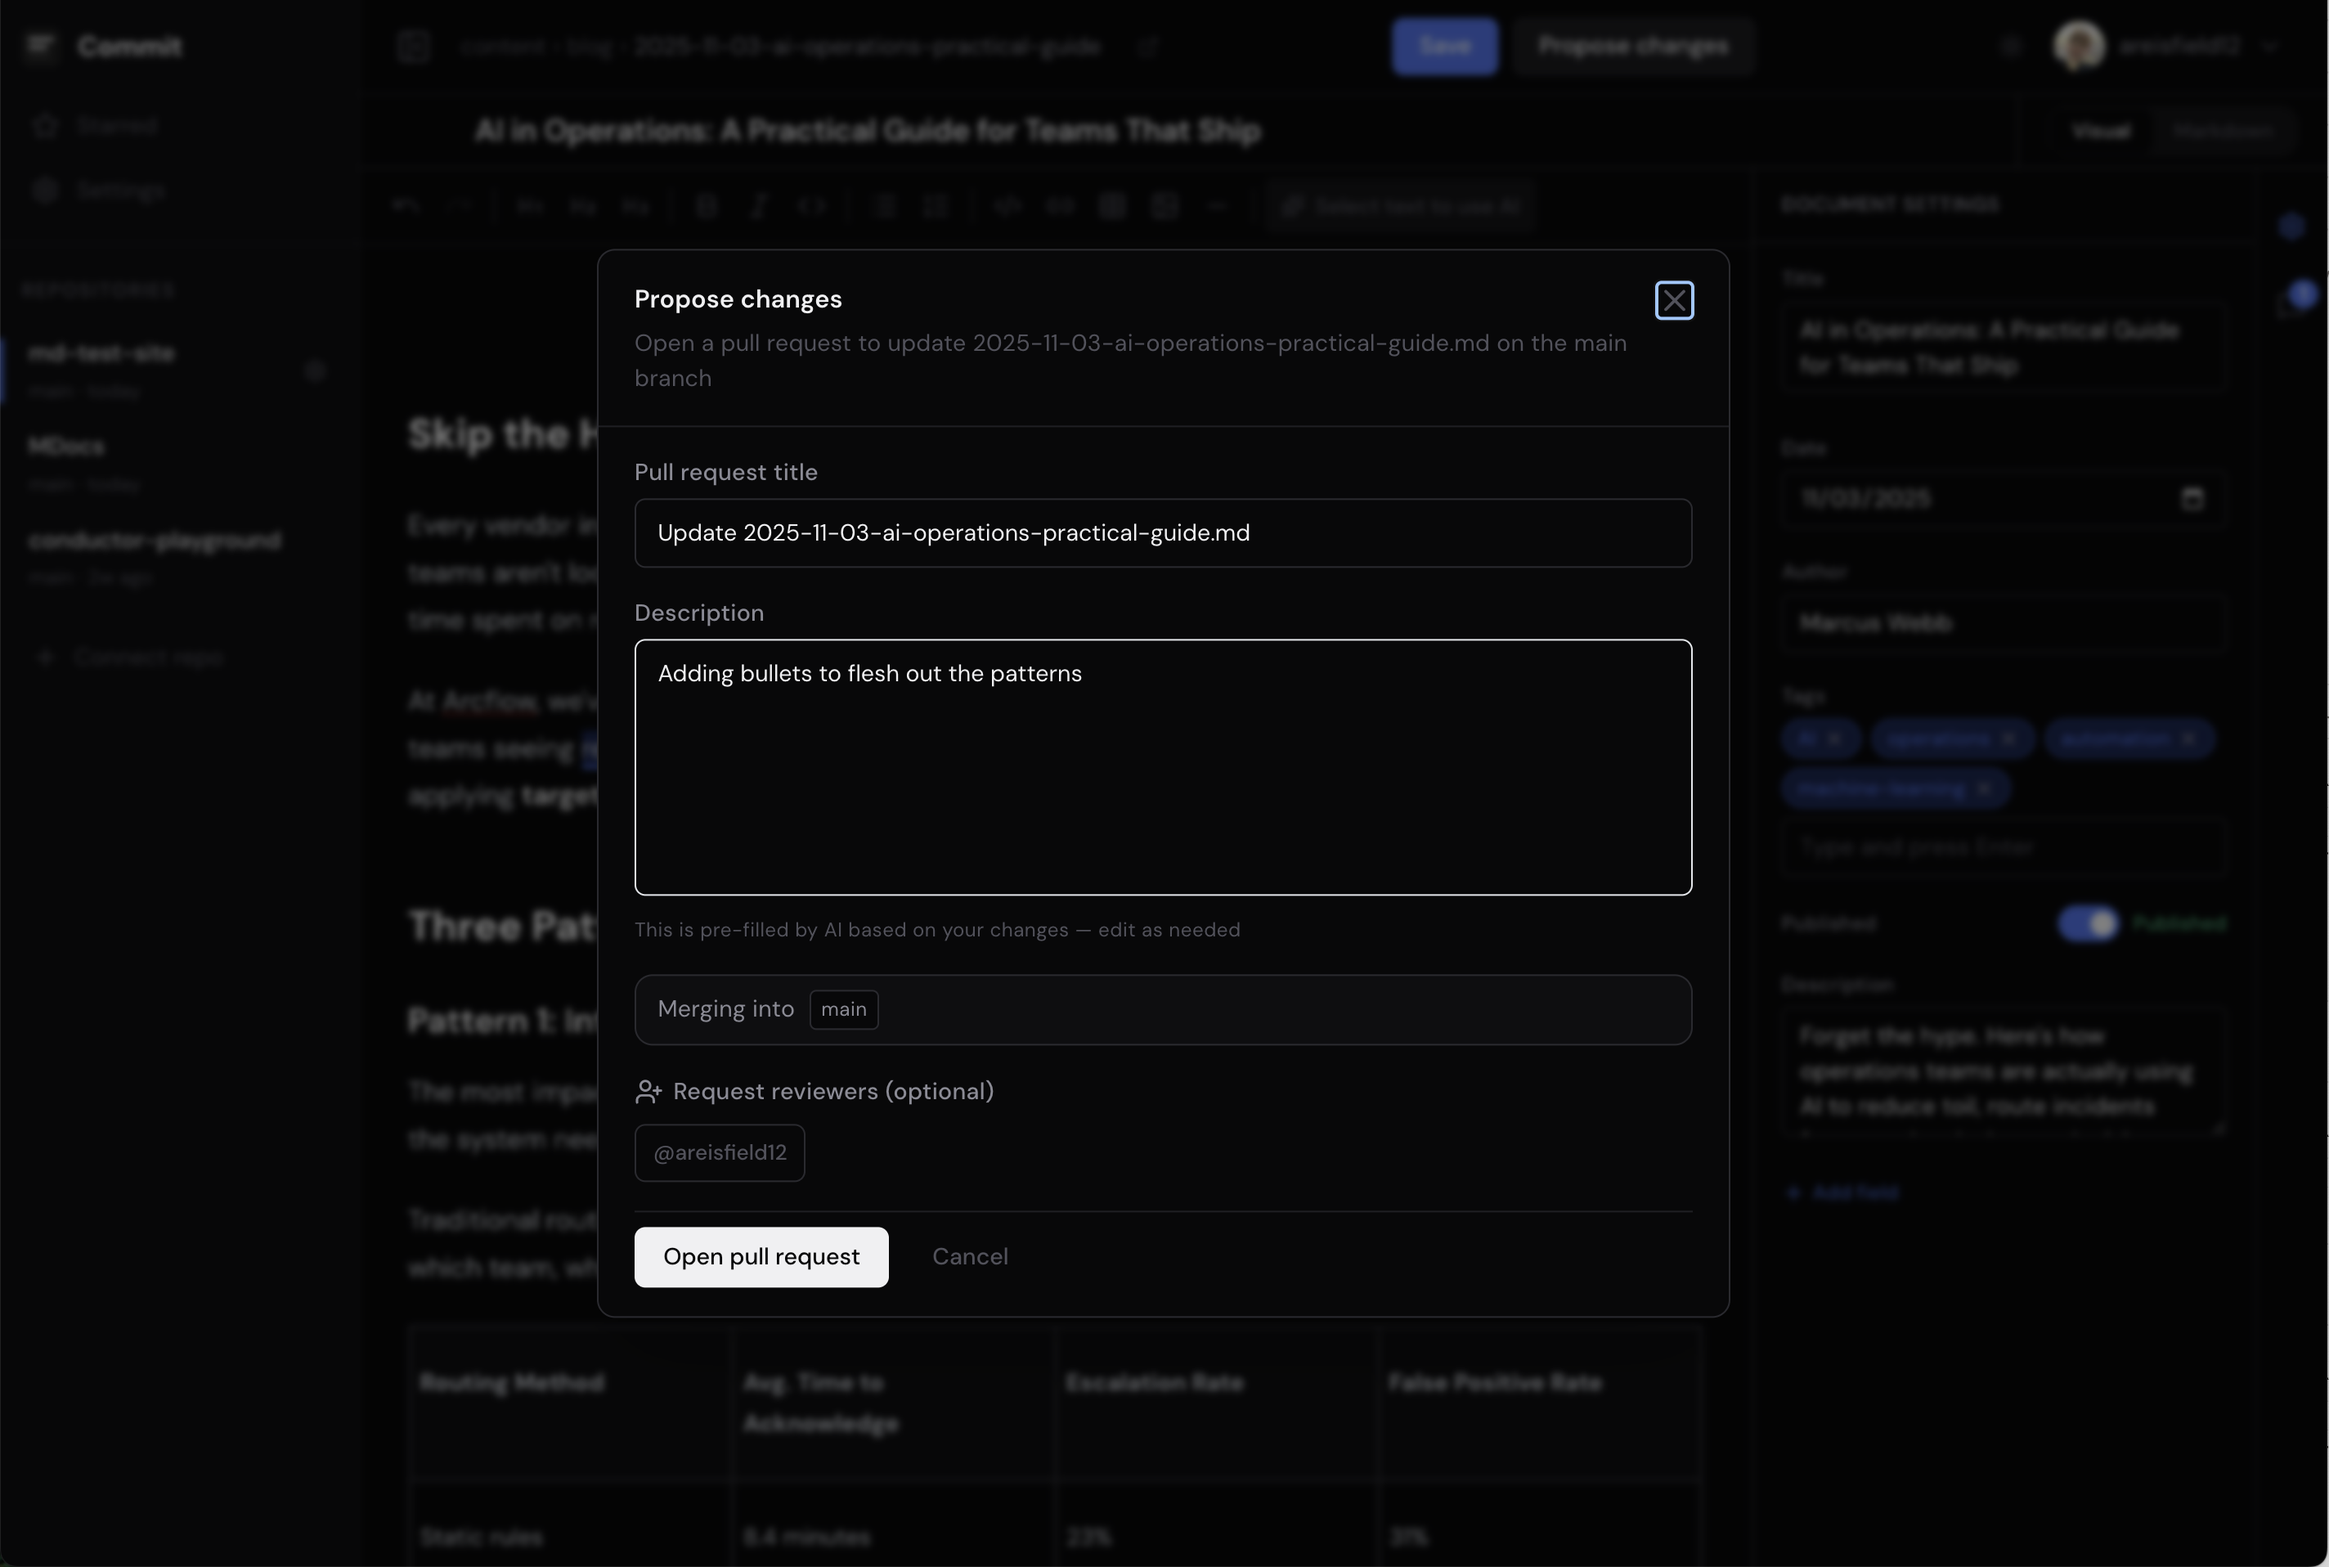
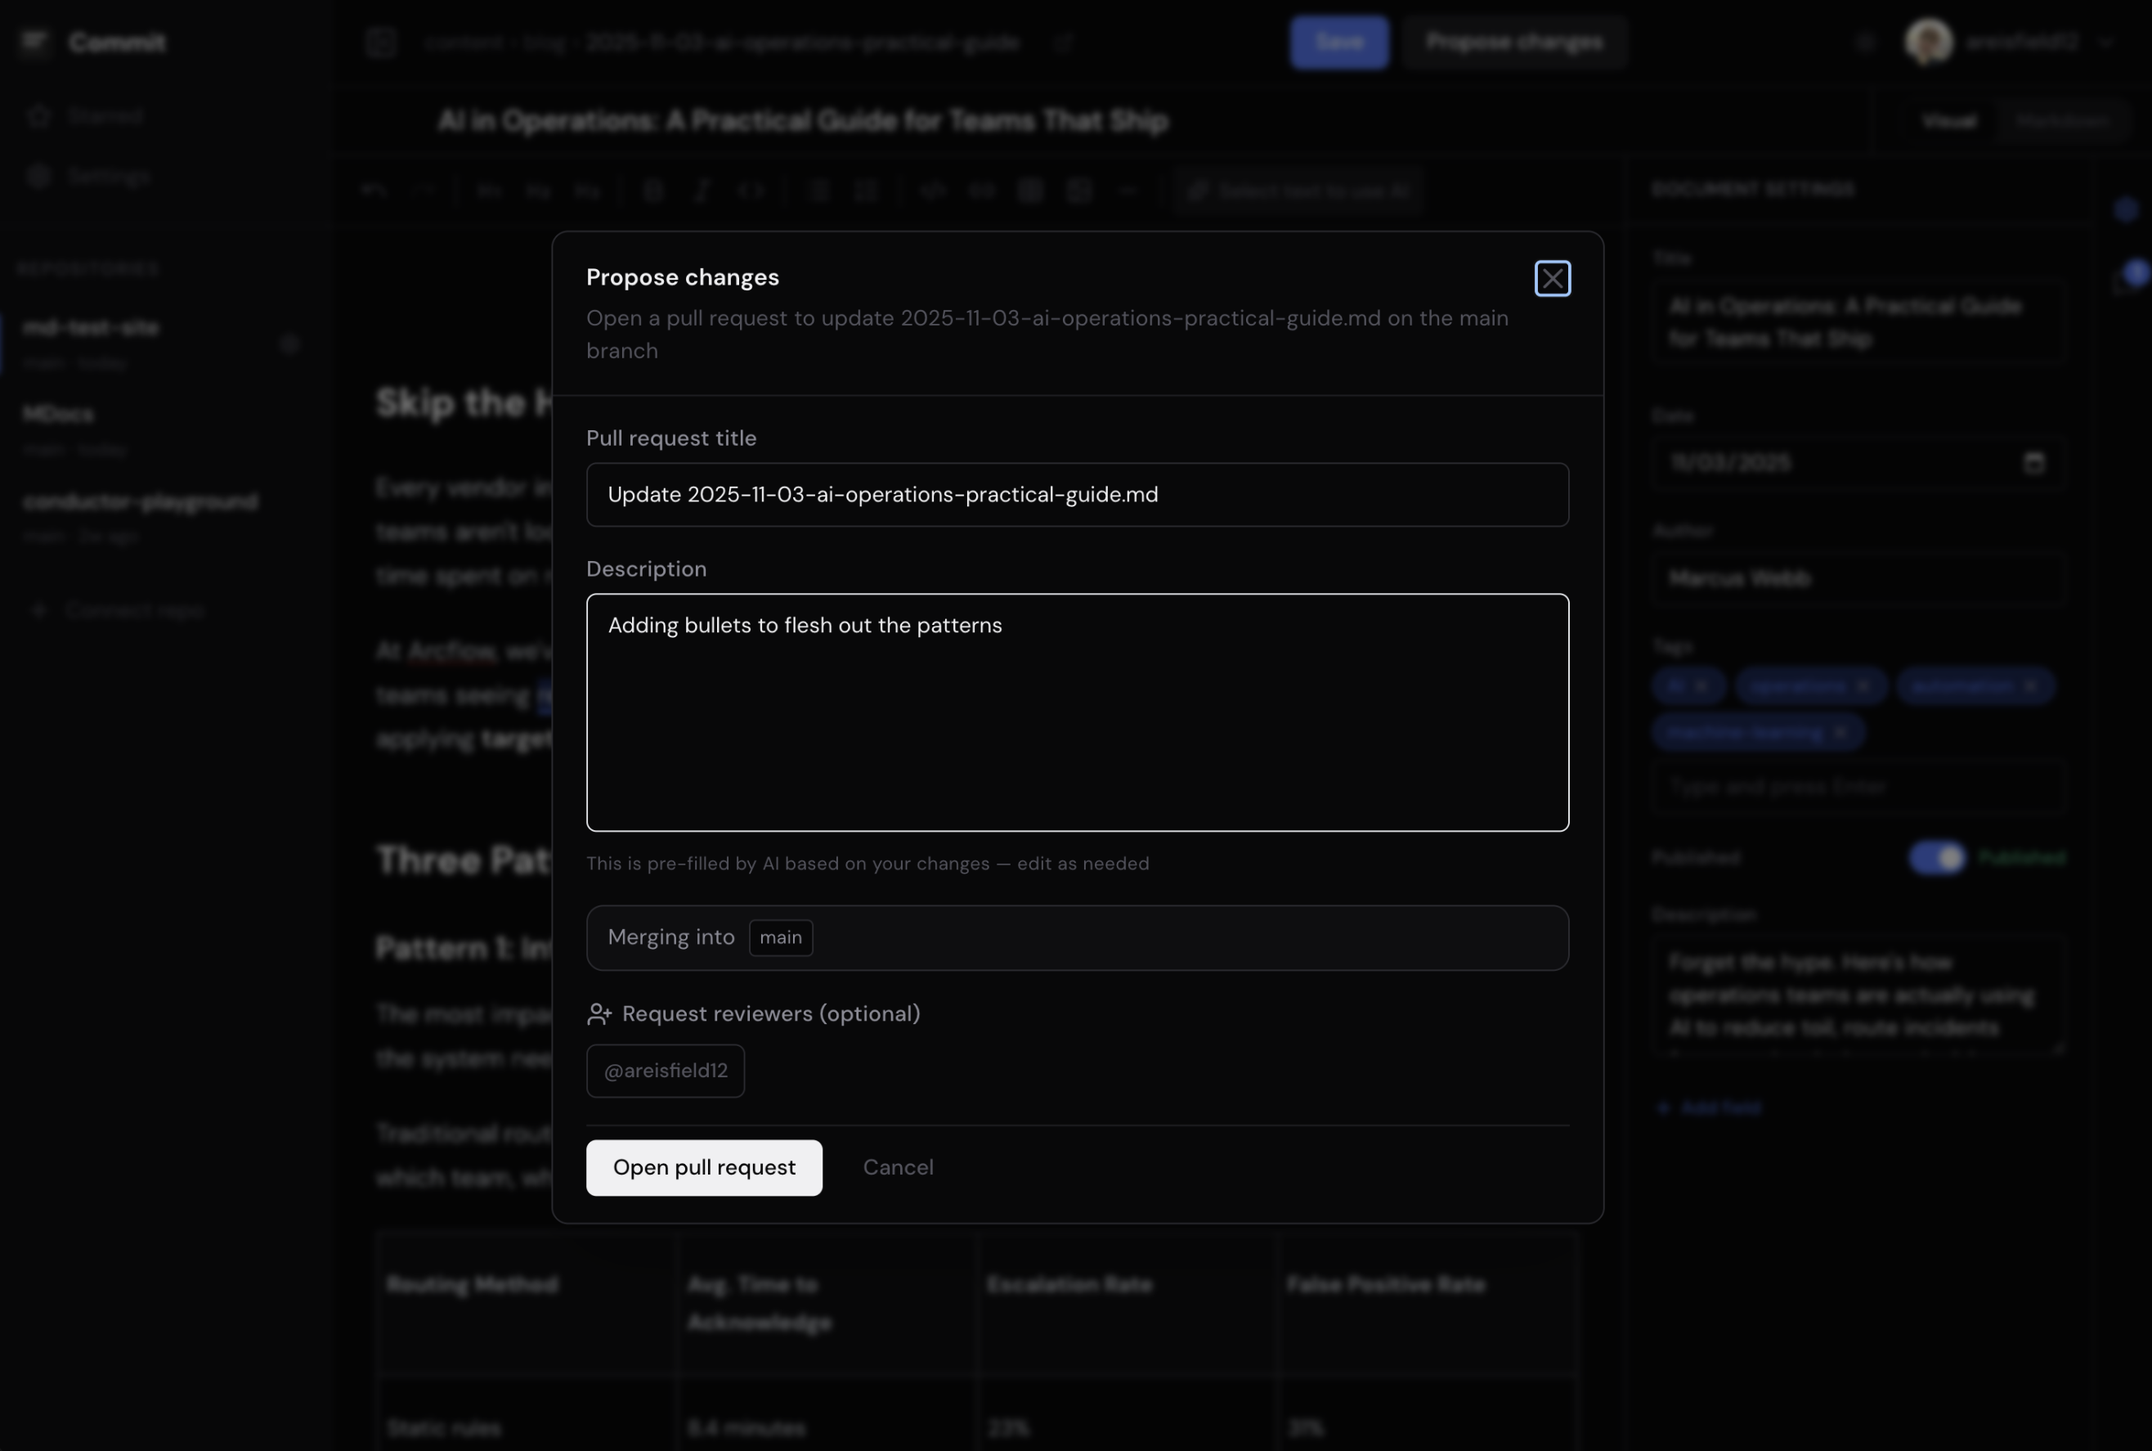
Remove starred nav button and update how-it-works image (#47)
Removes the non-functional "Starred" nav item from the sidebar and updates the how-it-works-3-v2.png image with new content.

diff --git a/src/components/layout/Sidebar.tsx b/src/components/layout/Sidebar.tsx
@@ -3,7 +3,7 @@
 import { useState, useEffect } from "react";
 import Link from "next/link";
 import { usePathname, useRouter } from "next/navigation";
-import { Star, Settings, Loader2, Plus } from "lucide-react";
+import { Settings, Loader2, Plus } from "lucide-react";
 import { cn } from "@/lib/utils";
 import { RepoInfo } from "@/types";
 import { Logo } from "@/components/Logo";
@@ -38,7 +38,6 @@ export function Sidebar({
   }, []);
 
   const navItems = [
-    { href: "/dashboard#starred", icon: Star, label: "Starred" },
     { href: "/settings", icon: Settings, label: "Settings" },
   ];
 
